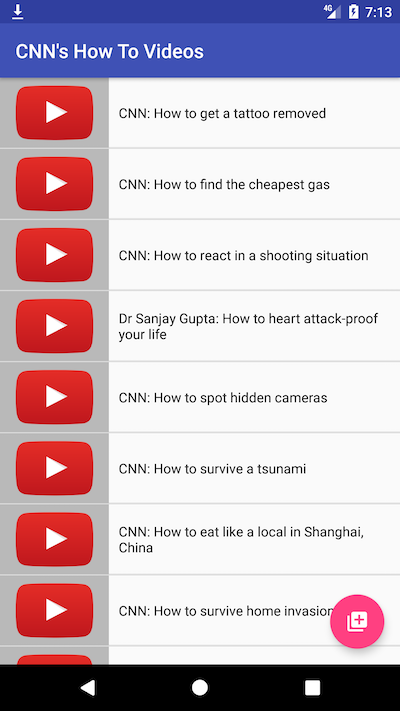
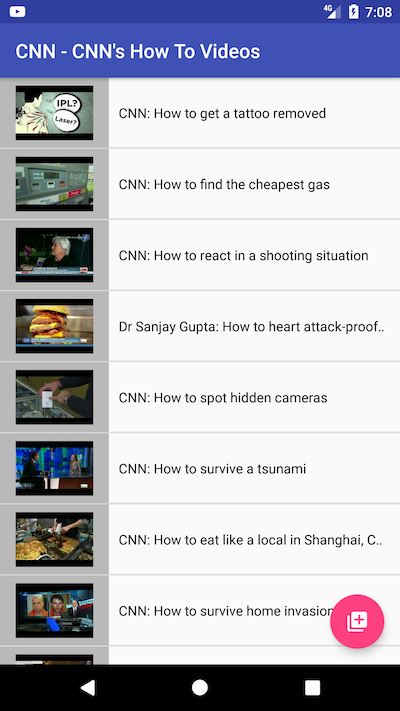
1.3.0, update readme

diff --git a/README.md b/README.md
@@ -14,6 +14,10 @@ For example : https://www.youtube.com/user/CNN
 Or you can directly from your phone share a video or a playlist to either download it or add the feed in your library.
 
 ## What's new in 
+
+### 1.3.0:
+- Manually parse feed xml to retrieve the feed / item cover and description
+- Get feed / entry thumbnail
 ### 1.2.0:
 - Change downloader library to improve download performance use a modify version of Gigaget
 - Add preference to change downloads path
@@ -27,6 +31,8 @@ Or you can directly from your phone share a video or a playlist to either downlo
 
 ## Screenshots
 
+### Share Feed / Playlist to library 
+![alt text](screenshots/share_playlist.png "browse a feed list (user/channel/playlist)")
 ### Browse a feed 
 ![alt text](screenshots/add_feed.png "browse a feed list (user/channel/playlist)")
 ### Feed library
@@ -40,13 +46,14 @@ Or you can directly from your phone share a video or a playlist to either downlo
 
 - Android based YouTube url extractor : https://github.com/HaarigerHarald/android-youtubeExtractor
 - Annotation-triggered method call by specified thread : https://github.com/KoMinkyu/teaspoon
-- Atom RSS parser : https://github.com/einmalfel/Earl
 - Json Parser : https://github.com/google/gson
 - Gigaget Downloader : https://github.com/PaperAirplane-Dev-Team/GigaGet
+- Butterknife View binder : https://github.com/JakeWharton/butterknife
+- Glide Image downloader : https://github.com/bumptech/glide
+- Simple XML parser : http://simple.sourceforge.net/
 
 ## TODO (next):
 
-- Manually parse feed xml to retrieve the feed / item cover and description
 - Find a way to easily subscribe to a feed/user without going through pushbullet.
 - Allow to choose in which directory do download a file at download time
 - Find a way to be podcast player compatible
